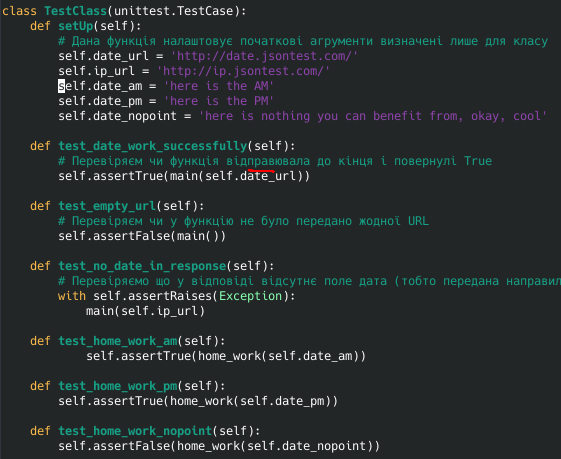
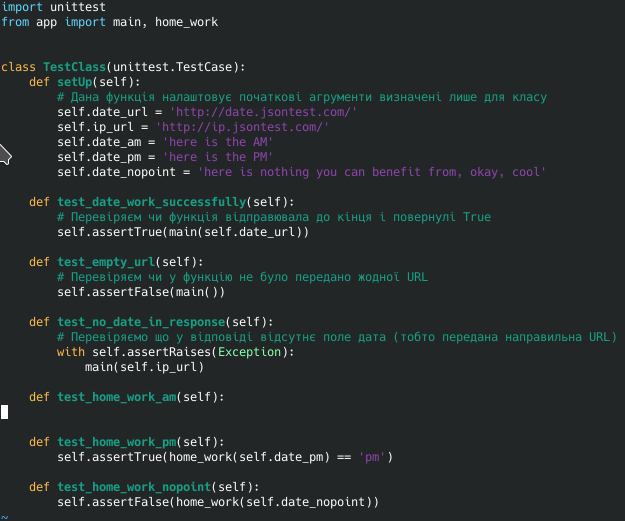
Lab_2: Stage 11: commit

diff --git a/lab_2/tests/tests.py b/lab_2/tests/tests.py
@@ -25,10 +25,10 @@ class TestClass(unittest.TestCase):
             main(self.ip_url)
 
     def test_home_work_am(self):
-            self.assertTrue(home_work(self.date_am))
+        self.assertTrue(home_work(self.date_am) == 'am')
 
     def test_home_work_pm(self):
-        self.assertTrue(home_work(self.date_pm))
+        self.assertTrue(home_work(self.date_pm) == 'pm')
     
     def test_home_work_nopoint(self):
         self.assertFalse(home_work(self.date_nopoint))

diff --git a/lab_2/app.py b/lab_2/app.py
@@ -30,12 +30,12 @@ def home_work(t):
         print("*" * 26)
         print("*\t Доброго дня!\t *")
         print("*" * 26)
-        return 1
+        return 'am'
     elif "PM" in t:
         print("*" * 35)
         print("*\t Доброго вечора/ночі\t *")
         print("*" * 35)
-        return 1
+        return 'pm'
     else:
         print("Нимагу візначіть время суток")
         return 0

diff --git a/lab_2/README.md b/lab_2/README.md
@@ -46,7 +46,7 @@
 
 6. ( :heavy_check_mark: ) Встановіть бібліотеку `pytest`. Тестування - це процес перевірки правильності відпрацювання коду. Для кращого розуміння ознайомтесь з [документацією pytest](https://docs.pytest.org/en/latest/#).
 
-    - ![pytest installation.py](./6_pytest_install.png) 
+    - ![pytest installation.py](./imgs/6_pytest_install.png) 
 
     
 
@@ -64,17 +64,22 @@
 
     
 
-9. :exclamation: (Захист) Написати тест що буде перевіряти правильність виконання Вашої функції;
+9. :exclamation: (Захист) ( :heavy_check_mark: ) Написати тест що буде перевіряти правильність виконання Вашої функції;
 
     - ![datetime greetings app test code](./imgs/9_app_datetime_test_code.png)  
 
     
+10. ( :heavy_check_mark: ) Перенаправте результат виконання тестів у файл `results.txt` а також додайте результат виконання програми у кінець цього ж файлу (append). Вкажіть у документації якою командою Ви це зробили;
+    - Перенаправлення стандартного потоку виводу (stdout) з допомогою `>`
+    - Допис в кінець файлу (append) за допомогою `>>`
+      ``` 
+      pytest tests/tests.py > results.txt
+      echo -e "\n#########################################################################\n" >> results.txt
+      python app.py >> results.txt
+      ```
+11. ( :heavy_check_mark: ) Зробіть коміт із Вашими змінами до репозиторію.
 
-10. Перенаправте результат виконання тестів у файл `results.txt` а також додайте результат виконання програми у кінець цього ж файл (append). Вкажіть у документації якою командою Ви це зробили;
-
-11. Зробіть коміт із Вашими змінами до репозиторію.
-
-12. Заповніть `Makefile` необхідними командами (bash) для повної автоматизації процесу СІ Вашого проекту (_дані директиви це по суті bash команди які Ви виконували у попередніх пунктах але трішки модифіковані_):
+12. ( :heavy_check_mark: ) Заповніть `Makefile` необхідними командами (bash) для повної автоматизації процесу СІ Вашого проекту (_дані директиви це по суті bash команди які Ви виконували у попередніх пунктах але трішки модифіковані_):
 
 - директива install - повинна інсталювати середовище за допомогою pipenv;
 
@@ -99,6 +104,7 @@ make
 - Результат виконання команди `make` має бути створене ізольоване середовище (venv), виконані тести, запущена програма та закомічений файл у git; 
 
 15. Після успішного виконання роботи відредагуйте Ваш персональний _README.md_ у цьому репозиторію. Створіть таблицю яка ставить у відповідність номер лабораторної роботи та URL посилання на папку з виконаною роботою у Вашому першосональному репозиторію. Створіть пул-реквест до основного репозиторію.
+
 
 
 
